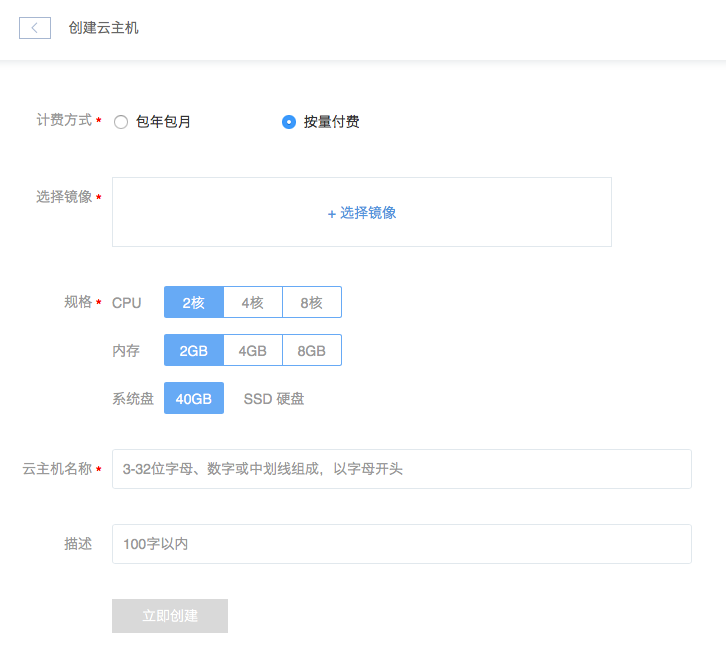
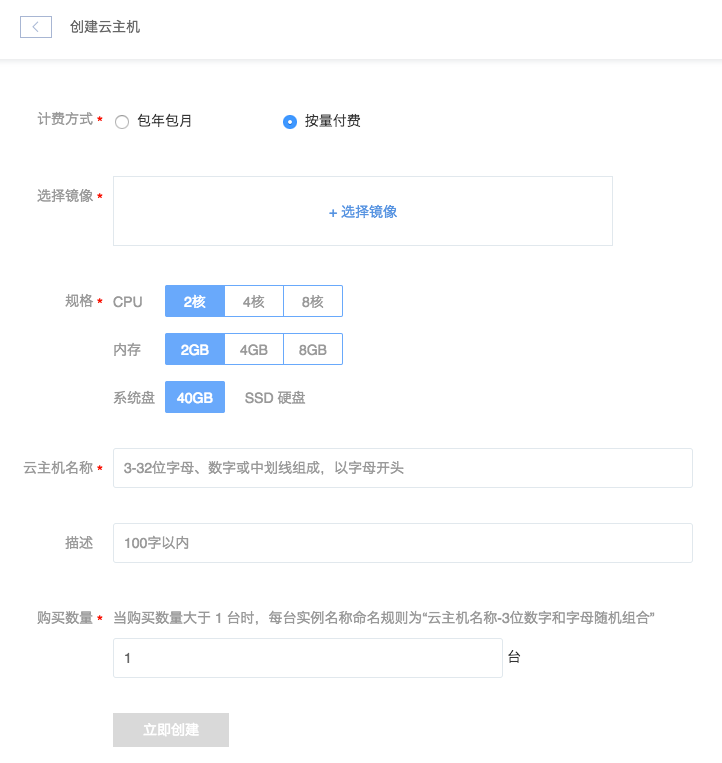
Feature:批量创建云主机

diff --git a/计算服务/云主机/购买指南/购买云主机.md b/计算服务/云主机/购买指南/购买云主机.md
@@ -4,7 +4,8 @@
 
 * 购买按量付费实例，账户余额必须大于等于 50 元或有可用代金券；
 * 购买包年包月实例，需要先完成付款，才可以创建实例；
-* 目前包年包月一年折扣 0.85，两年折扣 0.8，三年折扣 0.75。
+* 目前包年包月一年折扣 0.85，两年折扣 0.8，三年折扣 0.75；
+* 支持批量购买。
 
 建议你使用 [价格计算器](https://c.163.com/price) 对实例的价格成本进行初步估算。具体计费标准请参见 [云主机价格与计费](../md.html#!计算服务/云主机/购买指南/云主机价格与计费.md)。
 

diff --git a/计算服务/云主机/使用指南/实例/创建云主机.md b/计算服务/云主机/使用指南/实例/创建云主机.md
@@ -30,3 +30,6 @@
 **云主机名称**
 即 hostname。
 
+
+**购买数量**
+ 当购买数量大于 1 台时，每台实例名称命名规则为「云主机名称-3位数字和字母随机组合」。若需要更多配额，请 [提交工单](http://yq-ci.163.com/dashboard#/m/ticket/create/?type=%E4%BA%91%E4%B8%BB%E6%9C%BA) 申请。
